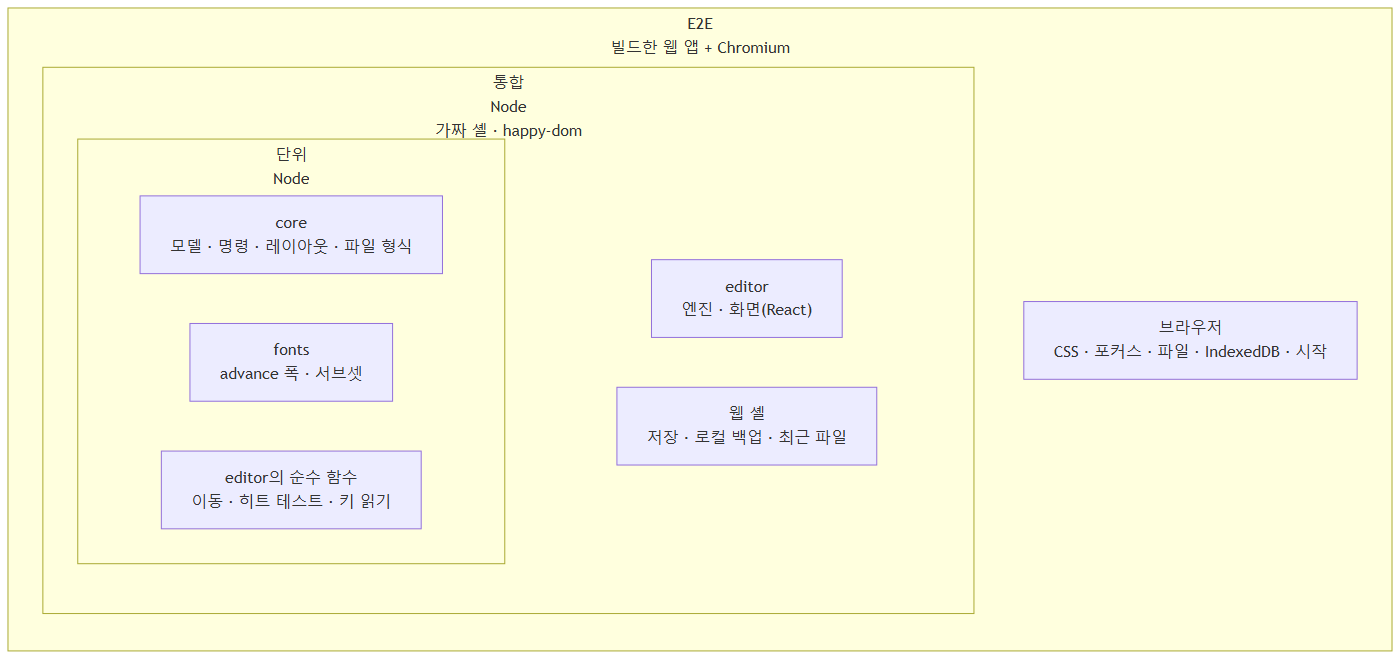
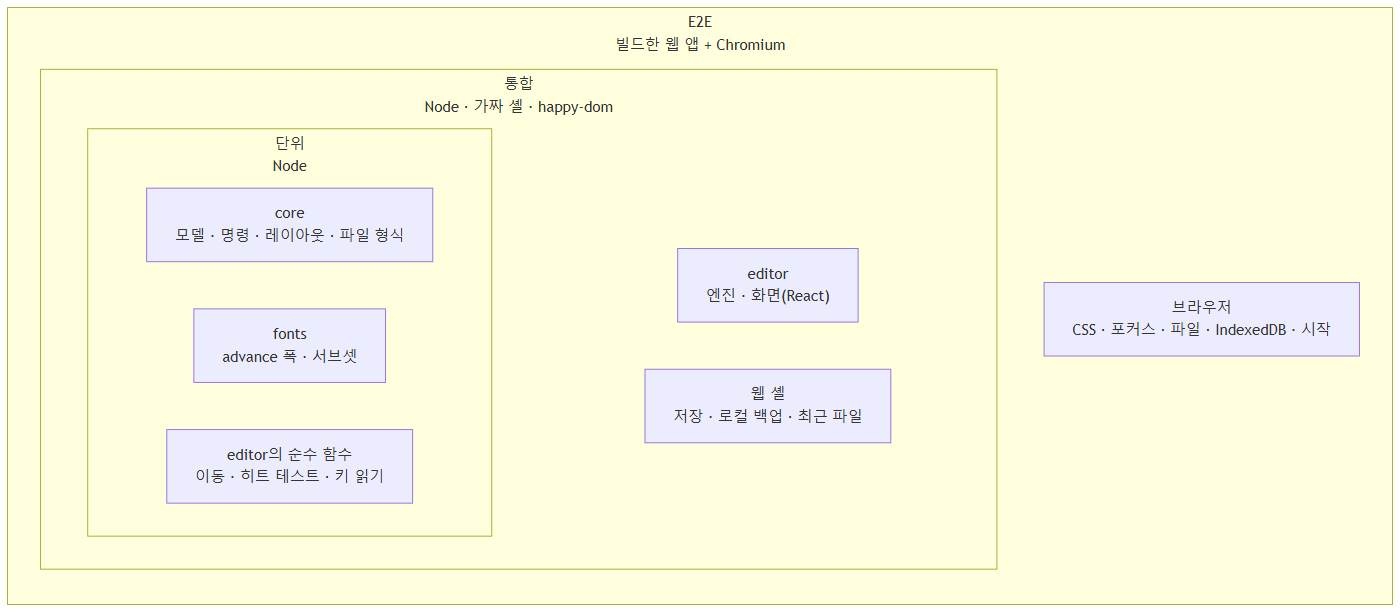
docs(testing): 테스트 유형 그림의 좌우를 Mermaid 판과 상관없이 고정(단위 왼쪽, editor · 웹 셸 오른쪽), render-mermaid에 판 고르기

diff --git a/docs/04-design/07-testing.md b/docs/04-design/07-testing.md
@@ -42,25 +42,27 @@ AriadneNSD를 어떻게 테스트하는지 정합니다: 테스트 아키텍처(
 어느 유형이 어느 구성 요소([[03-architecture#3. 구성 요소]])를 덮는지입니다.
 
 ```mermaid
-%%{init: {"flowchart": {"wrappingWidth": 400, "subGraphTitleMargin": {"top": 4, "bottom": 18}}}}%%
+%%{init: {"flowchart": {"wrappingWidth": 400, "subGraphTitleMargin": {"top": 4, "bottom": 24}}}}%%
 flowchart TB
     %% 이어지지 않은 상자는 direction TB면 옆으로, LR이면 아래로 놓인다. 그림이 가로로 길게 그려지게 고름(2026-11-03)
-    %% APP은 editor와 웹 셸을 위아래로 묶는 테두리 없는 묶음. 나중에 적은 묶음(UNIT)이 왼쪽에 놓인다
+    %% APP은 editor와 웹 셸을 위아래로 묶는 테두리 없는 묶음. UNIT ~~~ APP(보이지 않는 연결)이 단위를 왼쪽에 둔다.
+    %% 연결이 없으면 Mermaid 판마다 좌우가 뒤집힌다(Obsidian의 10.x와 사이트의 11.4)
     subgraph E2E["E2E<br/>빌드한 웹 앱 + Chromium"]
         direction TB
-        subgraph INT["통합<br/>Node<br/>가짜 셸 · happy-dom"]
-            direction TB
-            subgraph APP[" "]
-                direction LR
-                engine["editor<br/>엔진 · 화면(React)"]
-                shell["웹 셸<br/>저장 · 로컬 백업 · 최근 파일"]
-            end
+        subgraph INT["통합<br/>Node · 가짜 셸 · happy-dom"]
+            direction LR
             subgraph UNIT["단위<br/>Node"]
                 direction LR
                 core["core<br/>모델 · 명령 · 레이아웃 · 파일 형식"]
                 fonts["fonts<br/>advance 폭 · 서브셋"]
                 pure["editor의 순수 함수<br/>이동 · 히트 테스트 · 키 읽기"]
             end
+            subgraph APP[" "]
+                direction LR
+                engine["editor<br/>엔진 · 화면(React)"]
+                shell["웹 셸<br/>저장 · 로컬 백업 · 최근 파일"]
+            end
+            UNIT ~~~ APP
         end
         browser["브라우저<br/>CSS · 포커스 · 파일 · IndexedDB · 시작"]
     end
